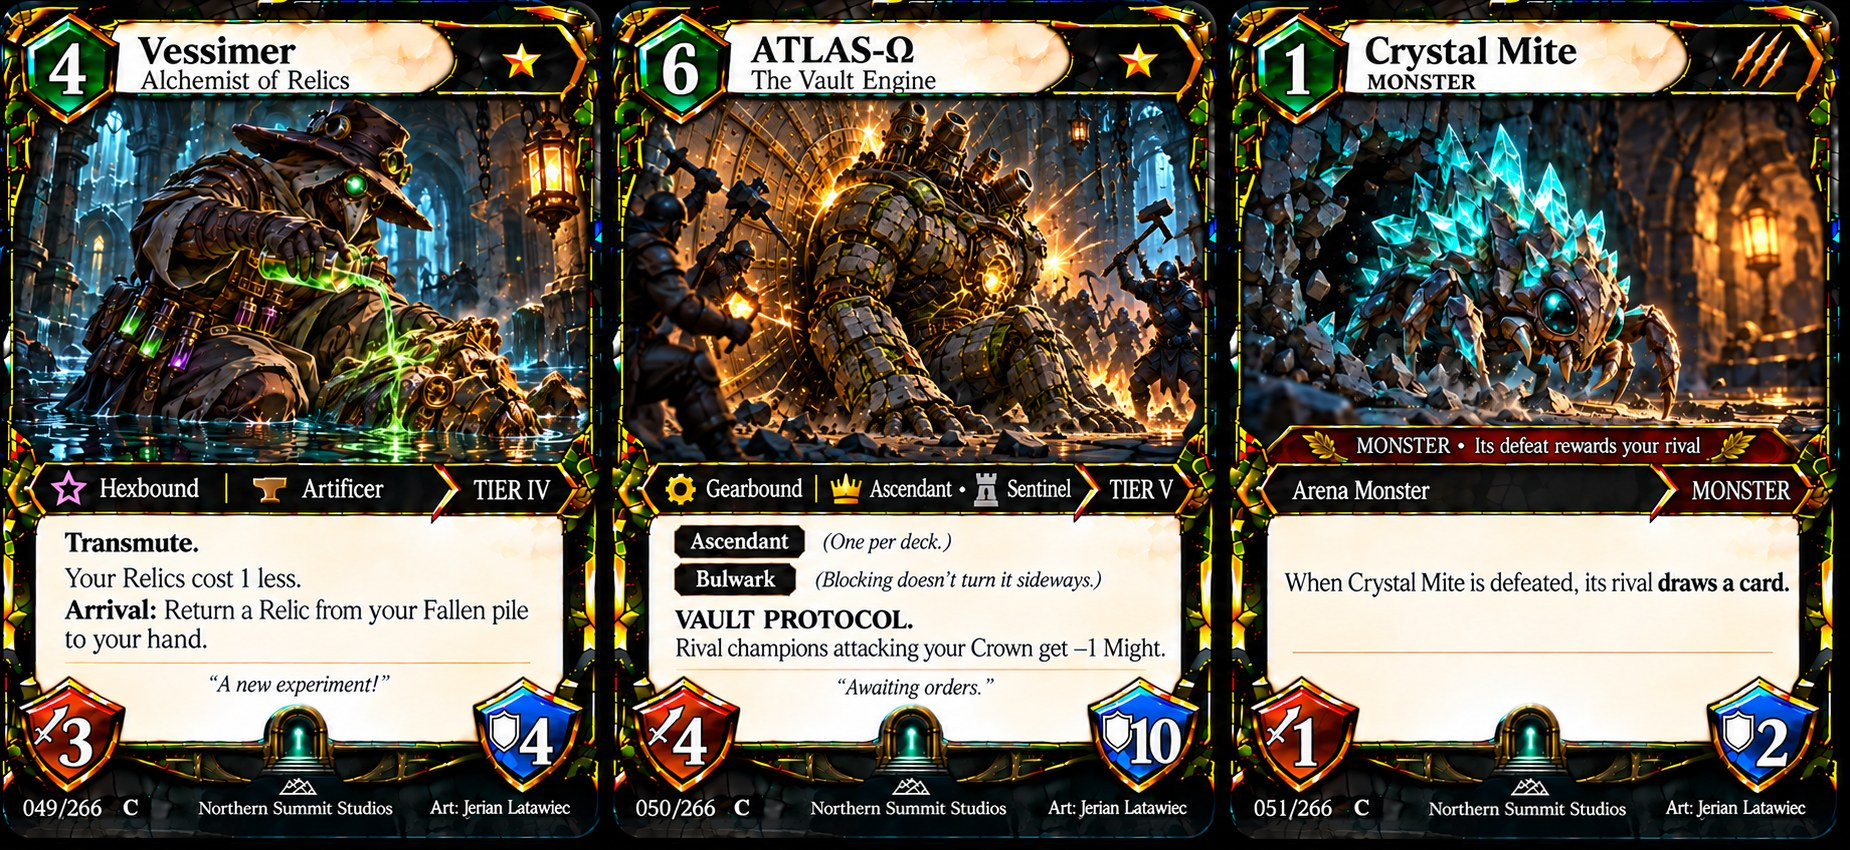
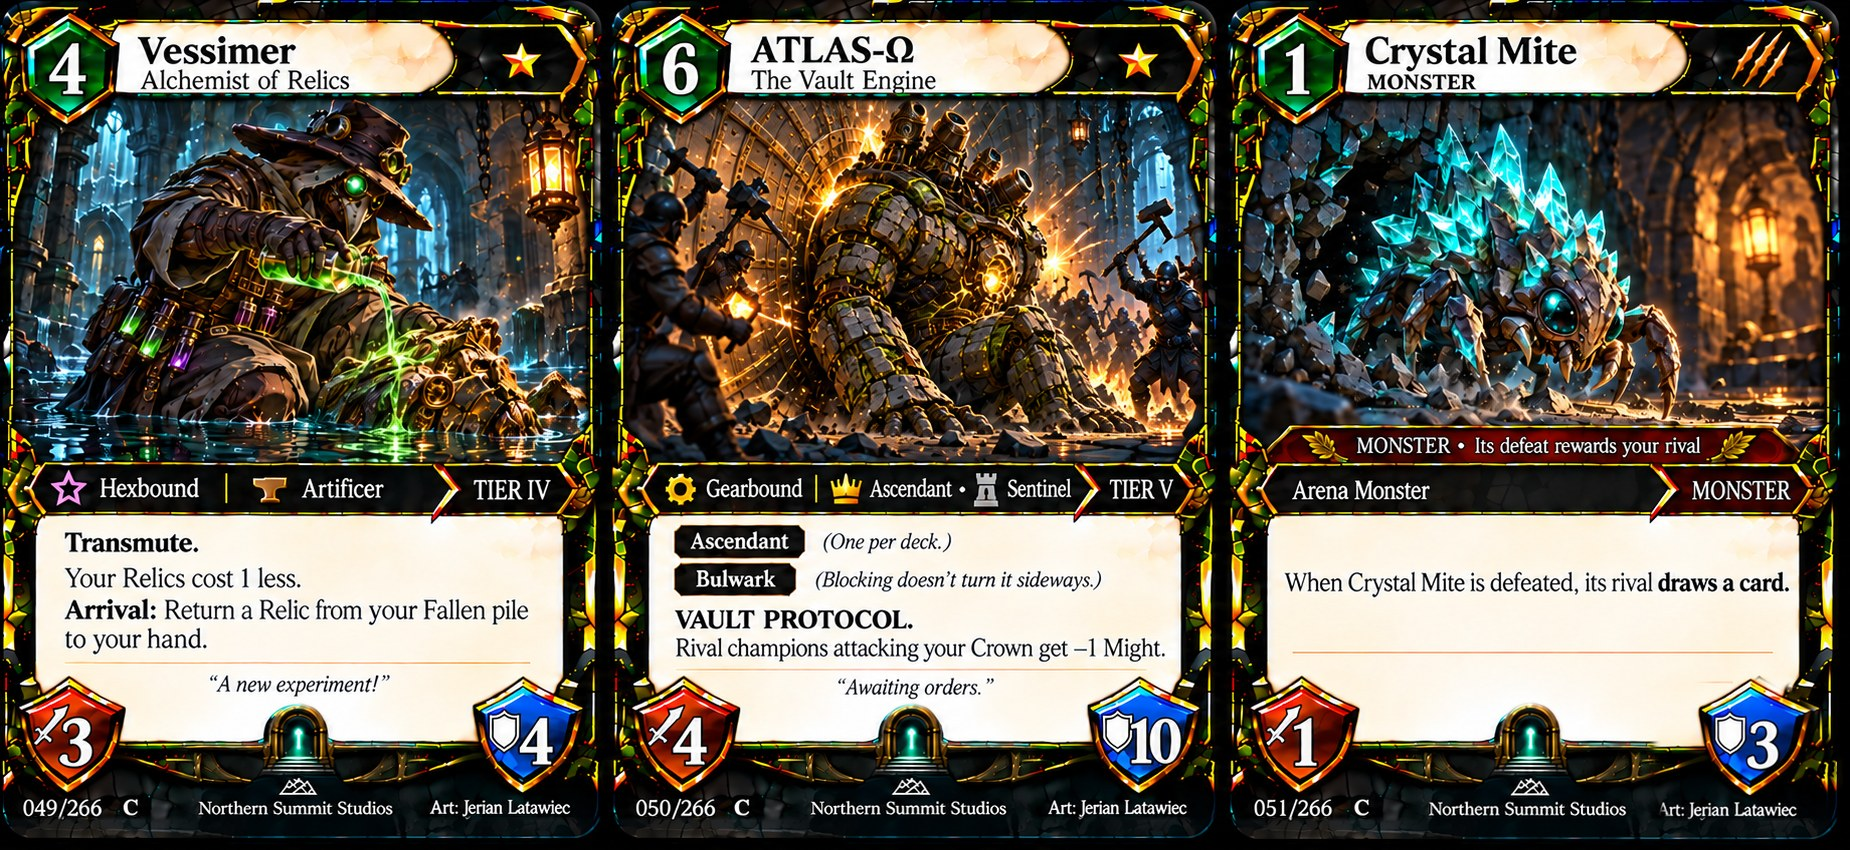
balance(set2): Crystal Mite 1/2 -> 1/3 (owner: Monsters a tad tougher); art Guard patched
Sim, 15,000 games: Brood 51.4 -> 53.1, all six starters 46.1-53.1. +1 Guard on every Monster
gave Brood 57.1, so only the Mite changes.

Changed region(s): [[0.8935, 0.7953, 1.0, 0.9788]]

diff --git a/src/v02/content/set2.ts b/src/v02/content/set2.ts
@@ -754,7 +754,7 @@ export const SET2_LINES: ChampionLine[] = [
     f(3, 14, 13, ['Ascendant', 'Charge', 'Flight', 'Ambush'], 'Ascend: Ready Crownless. Your other champions get +2 Might this turn. Attack: Scorch 3 the defender.', { ascend: [readySelf, { op: 'buffOthers', might: 2 }], attack: [scDef(3)] })),
 
   // ───────────────────────────── Monsters (with Loot) ─────────────────────────────
-  monster('mite', 'Crystal Mite', 1, 1, 2, [], 'When Crystal Mite is defeated, its rival draws a card.', { defeated: [draw(1, 'rival')], rarity: 'common' }),
+  monster('mite', 'Crystal Mite', 1, 1, 3, [], 'When Crystal Mite is defeated, its rival draws a card.', { defeated: [draw(1, 'rival')], rarity: 'common' }),
   monster('shardling', 'Shardling', 1, 2, 1, [], 'When Shardling is defeated, its rival gains 1 Command.', { defeated: [cmd(1, 'rival')], rarity: 'common' }),
   monster('hound', 'Rift Hound', 2, 2, 2, ['Charge'], 'When Rift Hound is defeated, its rival draws a card.', { defeated: [draw(1, 'rival')], rarity: 'common' }),
   monster('alpha', 'Rift Alpha', 3, 3, 3, ['Charge'], 'Your other Monsters have +1 Might. When Rift Alpha is defeated, its rival draws a card.',

diff --git a/prototype-v0.2/tools/set2-emblem.py b/prototype-v0.2/tools/set2-emblem.py
@@ -374,6 +374,45 @@ def stamp_rim(card):
     return Image.fromarray(out.astype("uint8"))
 
 
+# Stat changes made after a card was drawn (owner decisions). (sheet, card index) -> (source sheet, card index, which shield)
+# The whole shield is taken from a finished card that already shows the new number, so the art style matches exactly.
+STAT_PATCHES = {
+    # 2026-10-16: Crystal Mite 1/2 -> 1/3 ("a tad tougher"; sim: Guardians' Brood 51.4% -> 53.1%). Guard 3 from Lady Volt 048.
+    ("Cards 049-051 Vessimer ATLAS-Omega and Crystal Mite.png", 2): ("Cards 046-048 Titan Rho and Lady Volt.png", 2, "guard"),
+}
+
+
+def _shield_box(a, w, h, which):
+    """Bounding box of the Might (red, bottom-left) or Guard (blue, bottom-right) shield body."""
+    R, G, B = a[..., 0], a[..., 1], a[..., 2]
+    m = ((R > 140) & (G < 90) & (B < 90)) if which == "might" else ((B > 150) & (R < 90) & (G < 150))
+    m[:int(h * 0.80)] = False
+    if which == "might":
+        m[:, int(w * 0.30):] = False
+    else:
+        m[:, :int(w * 0.70)] = False
+    ys, xs = np.where(m)
+    return xs.min(), ys.min(), xs.max(), ys.max()
+
+
+def patch_stat(card, src_card, which):
+    """Paste src_card's whole Might/Guard shield (with its gold rim) over card's, centred on card's shield."""
+    im = card.convert("RGB").copy()
+    w, h = im.size
+    src = src_card.convert("RGB").resize((w, round(src_card.height * w / src_card.width)), Image.LANCZOS)
+    a, b = np.asarray(im).astype(int), np.asarray(src).astype(int)
+    tx0, ty0, tx1, ty1 = _shield_box(a, w, h, which)
+    sx0, sy0, sx1, sy1 = _shield_box(b, w, src.height, which)
+    pad = int(w * 0.03)
+    piece = src.crop((sx0 - pad, sy0 - pad, sx1 + pad, sy1 + pad))
+    mask = Image.new("L", piece.size, 0)
+    ImageDraw.Draw(mask).ellipse((2, 2, piece.width - 3, piece.height - 3), fill=255)
+    mask = mask.filter(ImageFilter.GaussianBlur(3))
+    cx, cy = (tx0 + tx1) / 2 - (sx1 - sx0) / 2 - pad, (ty0 + ty1) / 2 - (sy1 - sy0) / 2 - pad
+    im.paste(piece, (round(cx), round(cy)), mask)
+    return im
+
+
 def main():
     """Stamp every Set 2 sheet from its untouched original (copied once to Old/Card Sheets (original)),
     then refresh the repo previews in prototype-v0.2/card-art/set2. Safe to run again after new sheets arrive."""
@@ -392,8 +431,13 @@ def main():
         if not os.path.exists(orig):
             shutil.copy2(os.path.join(sheets, name), orig)
         im = Image.open(orig).convert("RGB")
-        for b in _cards(im):
-            im.paste(stamp_rim(stamp_emblem(im.crop(b))), b[:2])
+        for i, b in enumerate(_cards(im)):
+            card = im.crop(b)
+            if (name, i) in STAT_PATCHES:
+                sname, si, which = STAT_PATCHES[(name, i)]
+                sim = Image.open(os.path.join(ORIGINALS, sname)).convert("RGB")
+                card = patch_stat(card, sim.crop(_cards(sim)[si]), which)
+            im.paste(stamp_rim(stamp_emblem(card)), b[:2])
         if check:
             print("would stamp", name); continue
         dest = os.path.join(sheets, name)

diff --git a/prototype-v0.2/VALIDATION.md b/prototype-v0.2/VALIDATION.md
@@ -81,3 +81,5 @@ node prototype-v0.2/tools/build-print.mjs   # print kit + PDFs
 - **Mutation test.** Deliberately breaking three Set 2 card texts (Kael's Arrival, Iron Plate's Guard, Crystal Mite's Loot) made the validator fail on exactly those three cards (four checks). Restoring them returned it to zero failures.
 - **Gameplay tests: 52 for V0.2 (69 including the unchanged V0.1 suite).** `tests/v02/sets.test.ts` (15 new): Relics attach, add stats and follow the champion to the Fallen pile; one per champion; Emblems and the Crown of the First Realm add Origins; the Sovereign Crown adds a Champion Zone; free attach on Arrival; Edicts apply to both players and replace each other; tokens vanish; Monster Loot; the Clockwork Hydra splits; the Spider Queen summons each turn; Void can't break your last shard; Ascension Rite; Prodigy's Path; seeded coin flips; Crests. It also plays full AI games for all 16 deck pairings.
 - **Balance run** (`npm run sim:v02`, 1,000 games per pairing, 6,000 total, `validation/engine-sim.json`): Banner 51.0 vs Ember 49.0; Vault 54.5 vs Brood 45.5. Cross-set the spread is wider (Ember beats Brood 59.5%). Overall: Ember 55.1, Vault 49.3, Banner 48.3, Brood 47.3. First player 47–51% in every pairing. 0 conservation failures. The full table is in `SETS.md`.
+
+- **2026-10-16 Monster check** (`npx tsx scripts/v02-sim.ts 1000`, all six starters, 15,000 games). Before: Banner 47.9, Ember 52.4, Iron 49.9, Veil 52.1, Vault 46.3, Brood 51.4. Trial +1 Guard on all four Monsters: Brood 57.1 (too strong, reverted). Adopted (owner: "a tad tougher"): **Crystal Mite 1/2 → 1/3** only: Banner 47.2, Ember 52.0, Iron 49.7, Veil 52.0, Vault 46.1, Brood 53.1. Card art patched (Guard shield from Lady Volt 048). Vault Delvers is now the lowest deck.

diff --git a/prototype-v0.2/MASTER_CARD_LIST_SET2.md b/prototype-v0.2/MASTER_CARD_LIST_SET2.md
@@ -511,7 +511,7 @@ Rules version 0.2-paper-1. Generated from the game's card data and Crownfall com
 
 | No. | Card | Type | Cost | Stats | Rules text | Flavour | Art brief | Status |
 | --- | --- | --- | --- | --- | --- | --- | --- | --- |
-| S2-051 | Crystal Mite | Monster | 1 | 1 / 2 | When Crystal Mite is defeated, its rival draws a card. | — | A small crystal-backed creature skittering out of a cracked arena wall, glowing shards on its back. | Starter deck: Guardians' Brood |
+| S2-051 | Crystal Mite | Monster | 1 | 1 / 3 | When Crystal Mite is defeated, its rival draws a card. | — | A small crystal-backed creature skittering out of a cracked arena wall, glowing shards on its back. | Starter deck: Guardians' Brood |
 | S2-052 | Shardling | Monster | 1 | 2 / 1 | When Shardling is defeated, its rival gains 1 Command. | — | A jagged little shard creature hopping across broken crown fragments. | Starter deck: Guardians' Brood |
 | S2-053 | Rift Hound | Monster | 2 | 2 / 2 | **Charge** · When Rift Hound is defeated, its rival draws a card. | — | A lean hound with rift-light leaking from its eyes, bursting through a tear in the air. | Starter deck: Guardians' Brood |
 | S2-147 | Rift Alpha | Monster | 3 | 3 / 3 | **Charge** · Your other Monsters have +1 Might. When Rift Alpha is defeated, its rival draws a card. | — | The biggest Rift Hound at the head of a pack, rift-light streaming from its jaws. | Starter deck: Guardians' Brood |

diff --git a/prototype-v0.2/DECKLISTS.md b/prototype-v0.2/DECKLISTS.md
@@ -204,7 +204,7 @@ Flood the Arena with Monsters and Void Spiders, then raise the fallen. The Unwri
 
 | # | Card | Type | Cost | Might / Guard | Text |
 | --- | --- | --- | --- | --- | --- |
-| 2 | Crystal Mite — Monster | Monster | 1 | 1 / 2 | When Crystal Mite is defeated, its rival draws a card. |
+| 2 | Crystal Mite — Monster | Monster | 1 | 1 / 3 | When Crystal Mite is defeated, its rival draws a card. |
 | 2 | Rift Hound — Monster | Monster | 2 | 2 / 2 | Charge When Rift Hound is defeated, its rival draws a card. |
 | 2 | Rift Alpha — Monster | Monster | 3 | 3 / 3 | Charge Your other Monsters have +1 Might. When Rift Alpha is defeated, its rival draws a card. |
 | 1 | Shardling — Monster | Monster | 1 | 2 / 1 | When Shardling is defeated, its rival gains 1 Command. |
